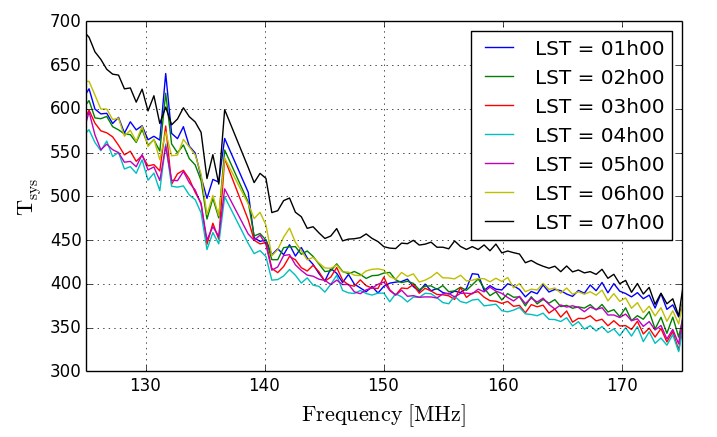
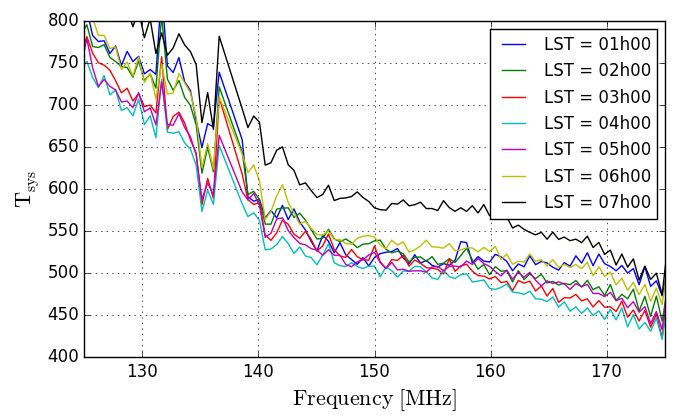
tsys update (fig, script, text) to reflect correction factor.
starting signal loss text (still need to run the simulation).

diff --git a/psa64_pspec_ver2.tex b/psa64_pspec_ver2.tex
@@ -1679,24 +1679,29 @@ information contained in the estimate.
 %         Since we don't see signal in the actual data, we can say that we have
 %         not detected the EOR signal yet.
 \subsubsection{Signal Loss}
-We now characterize this signal loss by running simulations through our power
-spectrum pipeline.  In order to understand the degree of signal loss due to our
-empirical estimates of the covariances, we simulate the injection of an eor
-model and measure the signal loss associated with running the full covariance
-analysis. These simulations consist of injecting a model eor signal on top of
-the data and running through our power spectrum estimator. In order to
-quantify this, we subtract the final power spectrum from one that had no model
-injection to measure the final injected signal power spectrum. Comparing this to
-the input data gives us an estimate of the signal loss associated with our
-pipeline.
+The optimal quadratic estimators for the power spectrum described above are a
+lossless operation, in theory. This is only true if we have all the information
+needed to apply this method. However, one of the major unknowns we have in our
+estimate, is the covariance. We are empirically estimating our covariance matrix
+from the data and therefore are potentially going to have signal loss in the
+final estimate of our power spectrum. Here we quantify the amount of signal loss
+associated with the empirical estimates of the covariance matrix and claim that
+it is a monotonic function of input signal level.
 
-%XXX Carina's Text of the eor model goes here.
-The model eor signal used was a simulation of a flat power spectrum, in P($k$),
-from $k$-modes ranging from .1-10 $\text{hMpc}^{-1}$. From this an angular power
-spectrum is computed (\cite{datta_et_al2007, lewis_challinor_2007}), ensuring
-correlation in frequency/redshift for the power spectrum maps. Visibilities are
-then simulated for this power spectrum map by explicitly integrating fringes on
-the sky every 42.8 seconds for an East-West baselin of 30 m.
+In order to understand the degree of signal loss due to our empirical estimates
+of the covariances, we simulate the injection of an EoR model and measure the
+signal loss associated with running the full covariance analysis. These
+simulations consist of injecting a model eor signal on top of the data and
+running through our power spectrum estimator. In order to quantify this, vary
+the input model EoR signal level that gets added onto the data and run through
+the optimal quadratic estimator to measure the signal loss. We compare this to
+the same power spectrum pipeline, except that we forgoe the inverse covariance
+weighting for no weighting. This is our fiducial power spectrum, which contains
+no signal loss. We Monte Carlo to obtain an overall conservative correction
+factor for the final power spectrum. 
+
+Before presenting the results we first discuss our model EoR visibilities. For
+each measurment set, we construct a random gaussian signal that corresponds 
 
 By using these simulations, we vary the amplitude of the eor signal input into
 the oqe by multiplying by a scalar to each simulated visibility. Figure
@@ -1705,6 +1710,20 @@ input signal amplitude. With this we argue that if there was an eor signal at
 any substatial level, a detection would have been made. Because our power
 spectra are still consistent with zero, we conclude that a positive detection of
 EoR has not been made. 
+
+
+
+XXX Need to claim that we ran an end to end test.
+
+XXX need to claim that because the signal is so low, there is no signal loss.
+
+%XXX Carina's Text of the eor model goes here.
+The model eor signal used was a simulation of a flat power spectrum, in P($k$),
+from $k$-modes ranging from .1-10 $\text{hMpc}^{-1}$. From this an angular power
+spectrum is computed (\cite{datta_et_al2007, lewis_challinor_2007}), ensuring
+correlation in frequency/redshift for the power spectrum maps. Visibilities are
+then simulated for this power spectrum map by explicitly integrating fringes on
+the sky every 42.8 seconds for an East-West baselin of 30 m.
 
 [XXX figure about signal loss vs. signal level]
 %In order to effectively characterize signal loss in our analysis pipeline, we
@@ -1931,45 +1950,35 @@ slightly correlated with each other.  Figure \ref{fig:stability} shows the
 stability of the instrument as a function of time. 
 
 \subsection{System Temperature}   
-[XXX: need to put in correction factor that accounts for filtering of 3 sigma mediaan. This will remove the discussion below of the redubdant baselinees and discrepencies with old estimates.]
 During the LST binning step, the variance of the visibilities on a frequency and
-time basis, are recorded. Using these variance, we calculate the system
-temperature as a function of LST, averaging over each LST hour. Figure
-\ref{fig:tsys} shows the results of this calculation. In this observing season,
-the system temperature decreased significantly, coming down to $T_{sys} = 375K$
-at 160 MHz, as compared to \cite{parsons_et_al2014,jacobs_et_al2014a}, which
-used the PAPER 32 antenna data set and deduced a system temperature of 560K at
-160 MHz. 
+time basis, are recorded. Using these variances, we calculate the system
+temperature as a function of LST, averaging over each LST hour. 
+\begin{equation}
+    T_{sys} = \frac{T_{rms}}{\sqrt{\Delta\nu t_{int}}}, 
+\end{equation}
+where $\Delta\nu$ is the bandwidth, $t_{int}$ is the integration time, and
+$T_{rms}$ is the RMS temperature.
+Figure \ref{fig:tsys} shows the results of this calculation. In this observing
+season, the system temperature stays consistent with previous estimates of the
+as in \citet{parsons_et_al2014} and \citet{jacobs_et_al2014a} at $T_{sys} =
+500K$ at 160 MHz.
 
 \begin{figure}[b!]\centering
 \includegraphics[width=\columnwidth]{plots/tsys.png}
-\caption{System temperature as a function of time. XXX this needs to be adjusted for variance lost in lst flagging.}
+\caption{System temperature as a function of frequency plotted for multiple LST
+bands. $T_{sys}$ is calculated for every integration using the variance
+statistic calculated in every LST bin and average on hour time scales to
+estimate the $T_{sys}$ reported here. For a majority of the LST bins, especially
+those bins used in our analysis, the system temperature is about 500K at 160
+MHz, consistent with previous estimates of the system temperature. XXX note that
+this has the correction factor applied to it, assuming gaussian statistics.}
 \label{fig:tsys}
 \end{figure}
-
-The system temperature estimated here is estimated from the variance in a given
-LST bin from all of the visibilities that correspond to that bin. We saw in
-figure \ref{fig:density} that redundant baselines agree at a fine level and the
-fractional spread in the data points is roughly 100 Jy. This variance, but of
-the complex visibility rather than just the real part, is what we are using in
-order to estimate the system temperature via the usual equation, 
-\begin{equation}
-    T_{sys} = \frac{T_{rms}}{\sqrt{\Delta\nu t_{int}}},
-\end{equation}
-where $\Delta\nu$ is the bandwidth, $t_{int}$ is the integration time, and
-$T_{rms}$ is the RMS temperature. Since this is the metric we are using to
-measure the system temperature, the increased precision in omnical has reduced
-the RMS noise in our measurements and therfore we measure a lower, and truer,
-noise temperature for our instrument. The system temperature measured here is
-closer to what was originally expected for the PAPER instrument
-\citep{parsons_et_al2010}.
-
 Previous estimates of the system temperatue
 \citep{parsons_et_al2014,jacobs_et_al2014} relied on differencing and averaging
-baselines, time samples, and/or frequency channels. In addition those datasets
-were not precisely calibrated with the Omnical redundant calibration package.
-They therfore had the possibility of having their RMS noise being dominated by
-variations between baselines, producing a larger system temperature.
+baselines, time samples, and/or frequency channels. The agreement between these
+various methods of estimating the system temperature provides a robust measure
+of the system temperature of the PAPER instrument. 
 
 %move this to discussion section?
 \subsection{The Covariance Matrix}

diff --git a/plots/plot_tsys.py b/plots/plot_tsys.py
@@ -9,7 +9,8 @@ jy2T = C.pspec.jy2T(fqs)
 jy2T.shape = (1,203)
 extent = (1e3*fqs[0], 1e3*fqs[-1], lsts[-1], lsts[0])
 Tlst = n.sqrt(var)*jy2T
-three_sig_correction = 0.974
+#three_sig_correction = 0.974
+three_sig_correction = 1/1.34
 Tsys = Tlst * 1e-3 * n.sqrt(43 * 100. / 203 * 1e6) / three_sig_correction
 Trms = Tlst / n.sqrt(cnt.clip(1,n.Inf))
 
@@ -21,16 +22,20 @@ for i in xrange(40,600,chunk):
     Tsys_avg = n.sqrt(n.average(Tsys[i:i+chunk]**2, axis=0))
     valid = n.where(Tsys_avg > 213, 1, 0)
     p.plot(1e3*fqs.compress(valid), Tsys_avg.compress(valid), label='LST = %02dh00'%lst_hr)
-p.legend(loc='best')
+p.legend(loc='best', fontsize='medium')
 p.xlim(125,175)
-p.ylim(300,700)
+p.ylim(400,800)
 p.grid()
 p.xlabel(r'${\rm Frequency\ [MHz]}$', fontsize=16)
 p.ylabel(r'${\rm T}_{\rm sys}$', fontsize=16)
 p.subplots_adjust(0.12, 0.15, .95, .95)
 p.show()
 
-if False:
+Tsys_jy = Tsys / 1e-3 / jy2T
+
+#n.savez('tsys_model.npz', tsys=Tsys, freq=fqs, lsts=lsts)
+#n.savez('tsys_model_jy.npz', tsys_jy=Tsys_jy, freq=fqs, lsts=lsts)
+if True:
     p.subplot(121)
     C.arp.waterfall(Tsys, mx=700, drng=500, mode='lin', extent=extent)
     p.xlim(110,185)
